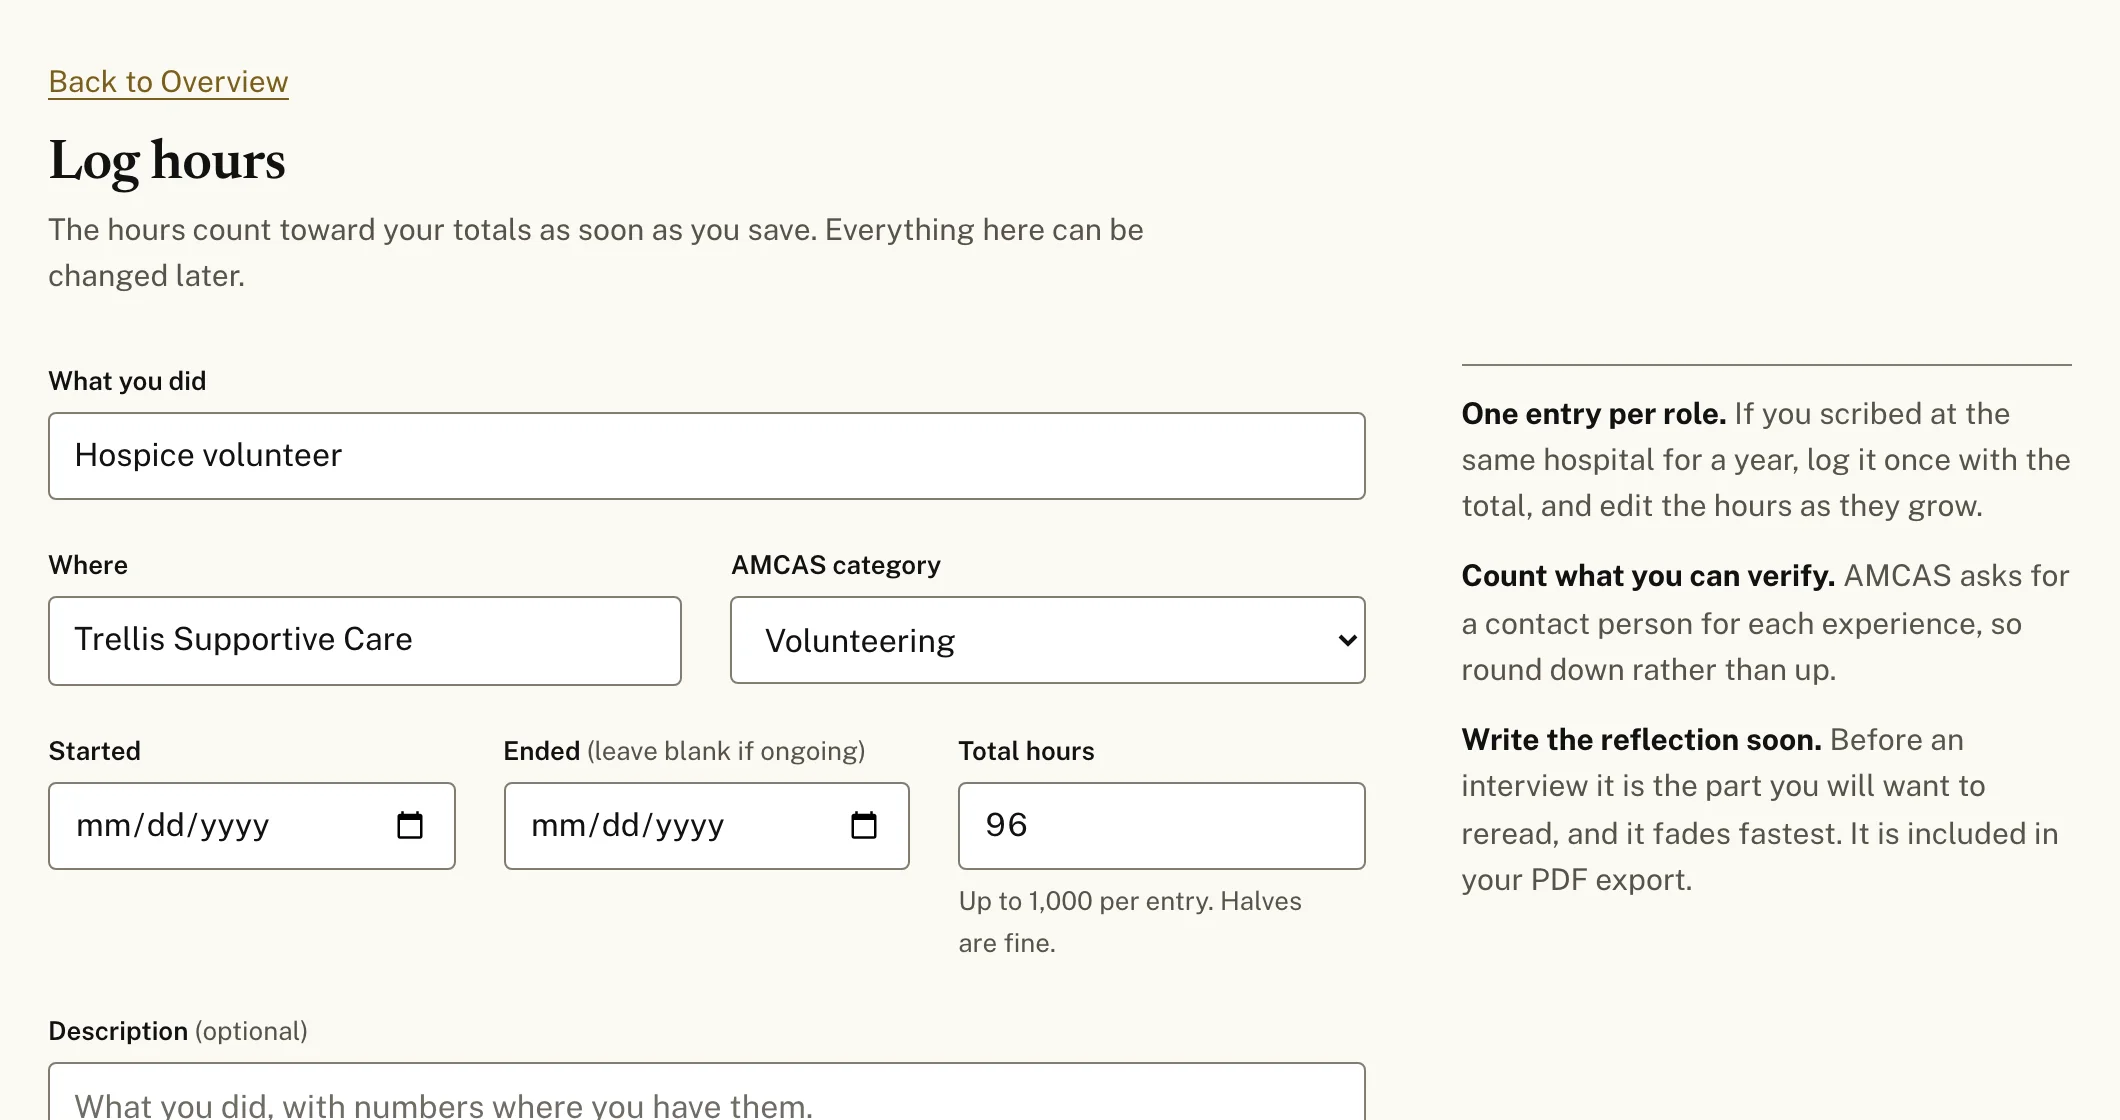
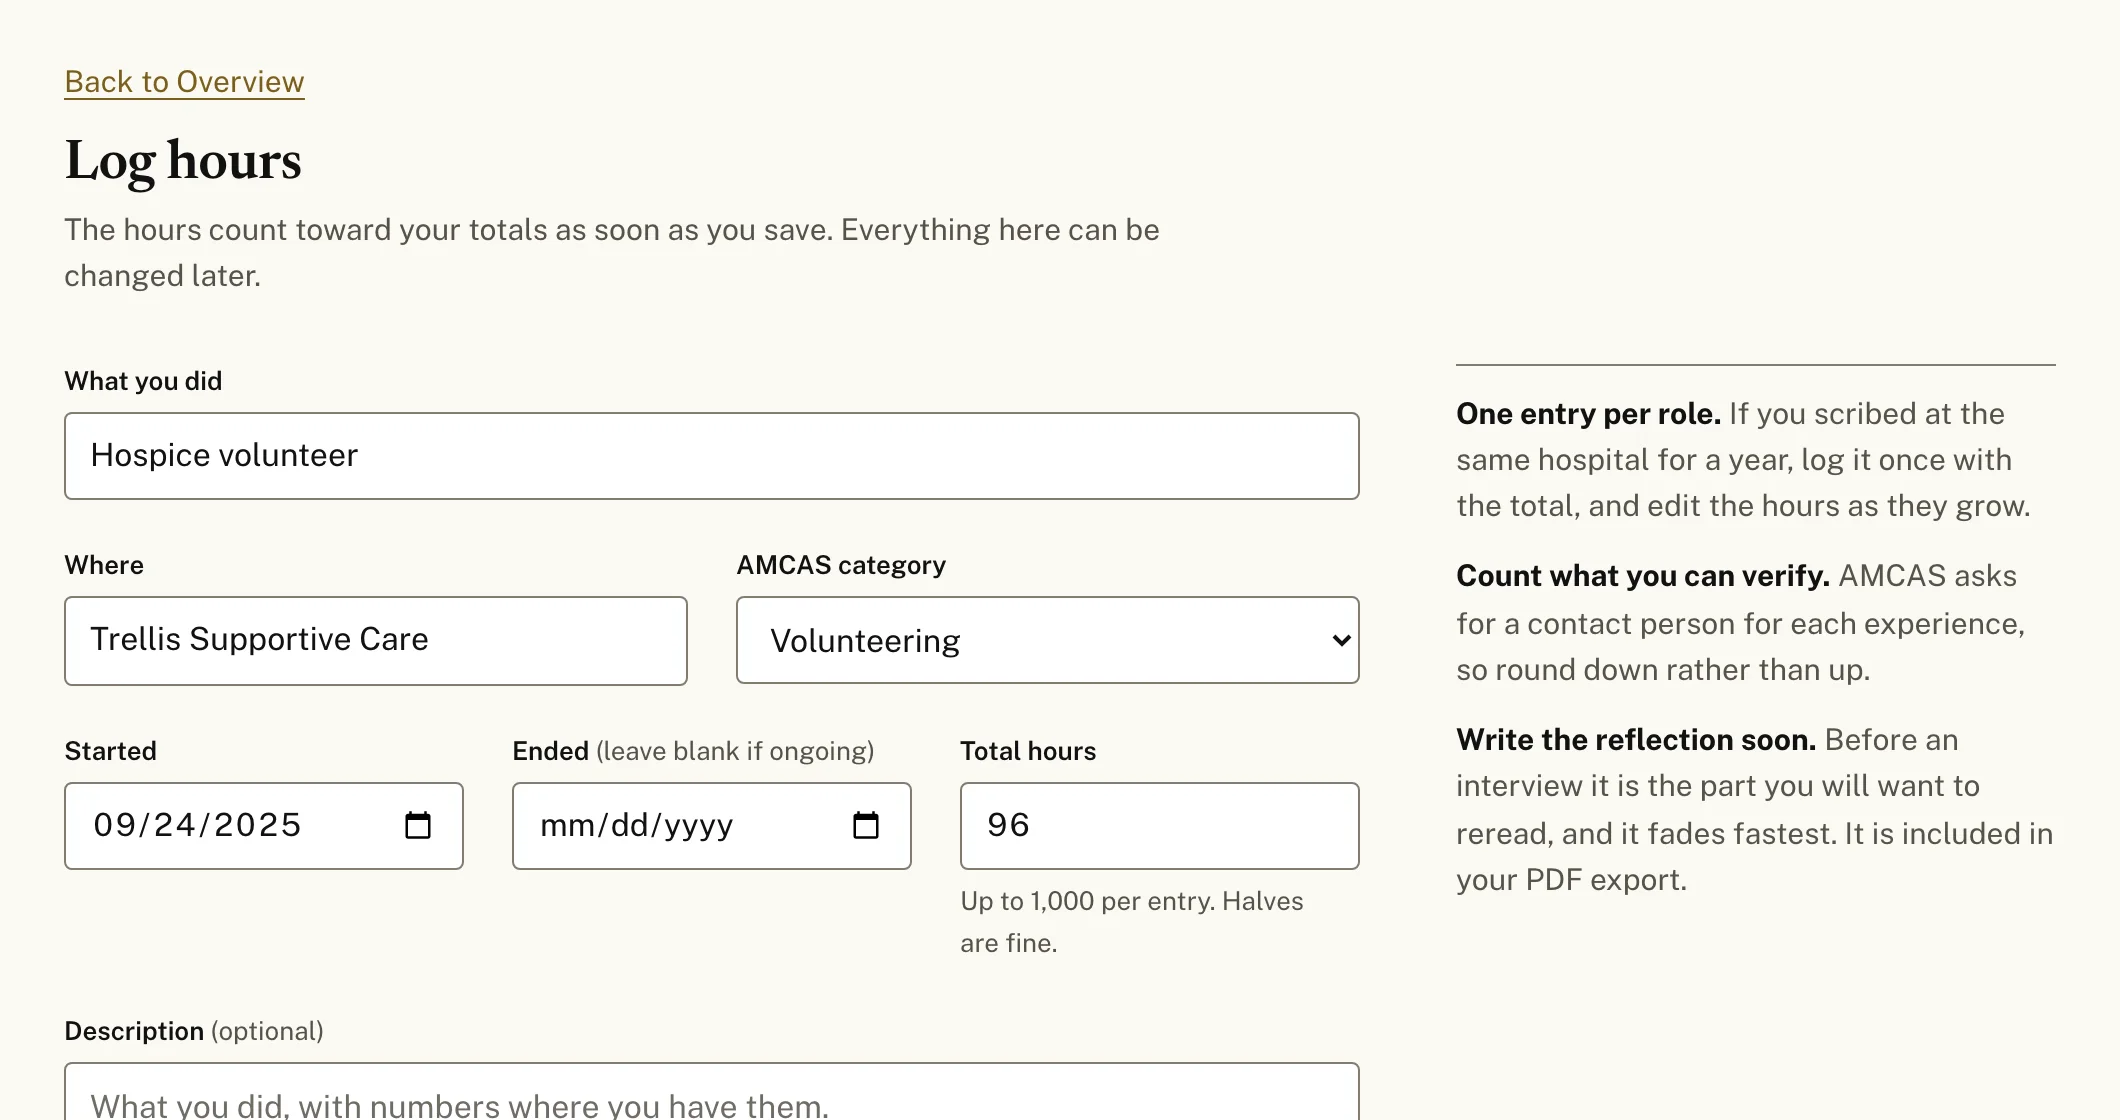
Phase 4 guardrails and phase 5 fixes
design-check now runs before every build and in a GitHub workflow.
Adds a skip link, makes the closed advisor drawer inert, clears the
five lint errors, gives every page a description, and computes landing
figures from the app's data.

diff --git a/src/components/AIAdvisorButton.tsx b/src/components/AIAdvisorButton.tsx
@@ -89,19 +89,21 @@ export default function AIAdvisorButton() {
     setCtxLoaded(true);
   }, [ctxLoaded, supabase]);
 
-  useEffect(() => {
-    if (open) {
-      window.dispatchEvent(new CustomEvent("cliniclog:advisor-opened"));
-      loadContext();
-      if (messages.length === 0) {
-        setMessages([{
-          role: "assistant",
-          content: "I'm the AI Advisor. I can see your logged hours and profile. Ask me about applying, and check anything important with your pre-health advisor, since I can be wrong.",
-        }]);
-      }
-      setTimeout(() => inputRef.current?.focus(), 300);
-    }
-  }, [open, loadContext, messages.length]);
+  // Everything that happens on open runs in the handler, not in an effect.
+  const openDrawer = useCallback(() => {
+    setOpen(true);
+    window.dispatchEvent(new CustomEvent("cliniclog:advisor-opened"));
+    loadContext();
+    setMessages((m) =>
+      m.length
+        ? m
+        : [{
+            role: "assistant",
+            content: "I can see your logged hours and profile, not your descriptions. Ask me about applying, and check anything important with your pre-health advisor, since I can be wrong.",
+          }],
+    );
+    setTimeout(() => inputRef.current?.focus(), 300);
+  }, [loadContext]);
 
   useEffect(() => {
     bottomRef.current?.scrollIntoView({ behavior: "smooth" });
@@ -109,12 +111,9 @@ export default function AIAdvisorButton() {
 
   // The drawer has no route of its own: every trigger dispatches this event.
   useEffect(() => {
-    function handleExternalOpen() {
-      setOpen(true);
-    }
-    window.addEventListener("cliniclog:open-advisor", handleExternalOpen);
-    return () => window.removeEventListener("cliniclog:open-advisor", handleExternalOpen);
-  }, []);
+    window.addEventListener("cliniclog:open-advisor", openDrawer);
+    return () => window.removeEventListener("cliniclog:open-advisor", openDrawer);
+  }, [openDrawer]);
 
   async function sendMessage() {
     const text = input.trim();
@@ -176,8 +175,13 @@ export default function AIAdvisorButton() {
         />
       )}
 
-      {/* Drawer */}
+      {/* Drawer. Inert while closed: it only slides off screen, so without
+          this its fields stay in the tab order. */}
       <div
+        inert={!open}
+        role="dialog"
+        aria-modal="true"
+        aria-label="AI advisor"
         className="fixed top-0 right-0 z-50 flex flex-col"
         style={{
           width: "min(420px, 100vw)",

diff --git a/src/app/page.tsx b/src/app/page.tsx
@@ -6,6 +6,8 @@ import Logo from "@/components/brand/Logo";
 import { AFFILIATION_NOTE } from "@/lib/brand";
 import overview from "../../public/landing-overview.webp";
 import logger from "../../public/landing-logger.webp";
+import { SCHOOLS, MD_SCHOOLS, DO_SCHOOLS, CARIBBEAN_SCHOOLS } from "@/lib/schools";
+import { SPECIALTIES } from "@/lib/specialties";
 import "./landing.css";
 
 export const metadata = {
@@ -13,8 +15,7 @@ export const metadata = {
     "Log clinical hours, shadowing, research and volunteering, compare them to common AMCAS benchmarks, and find medical schools that fit your GPA and MCAT.",
 };
 
-// Every figure here is counted from the app itself (src/lib/schools.ts,
-// src/lib/specialties.ts, src/lib/rateLimit.ts). Change them together.
+// Every figure is counted from the app's own data, so it cannot drift.
 const FACTS: { figure: string; label: string; body: string }[] = [
   {
     figure: "5",
@@ -22,9 +23,9 @@ const FACTS: { figure: string; label: string; body: string }[] = [
     body: "Clinical work, shadowing, research, volunteering and other, each with its own total and a common benchmark beside it.",
   },
   {
-    figure: "248",
+    figure: String(SCHOOLS.length),
     label: "medical schools",
-    body: "169 MD, 59 DO and 20 Caribbean programs, filtered by your GPA, MCAT, home state and mission.",
+    body: `${MD_SCHOOLS.length} MD, ${DO_SCHOOLS.length} DO and ${CARIBBEAN_SCHOOLS.length} Caribbean programs, filtered by your GPA, MCAT, home state and mission.`,
   },
   {
     figure: "1",
@@ -32,7 +33,7 @@ const FACTS: { figure: string; label: string; body: string }[] = [
     body: "Dates, hours, descriptions and reflections in one file, laid out for copying into the application.",
   },
   {
-    figure: "31",
+    figure: String(SPECIALTIES.length),
     label: "specialties",
     body: "Residency length, patient contact and a short summary of each, for deciding who to shadow next.",
   },

diff --git a/tests/polish/copy.spec.ts b/tests/polish/copy.spec.ts
@@ -44,16 +44,15 @@ test("the weekly email template is clean", () => {
   expect(BANNED.test(src)).toBe(false);
 });
 
-test("every page has a title and description under the length limits", () => {
+test("every page has a description under the length limit and no title of its own", () => {
   const pages = walk("src/app").filter((p) => p.endsWith("page.tsx"));
   for (const p of pages) {
     const own = readFileSync(p, "utf8");
     const layout = join(p, "..", "layout.tsx");
     const src = /export const metadata|generateMetadata/.test(own) ? own : existsSync(layout) ? readFileSync(layout, "utf8") : "";
     expect(/export const metadata|generateMetadata/.test(src), `${p} has no metadata`).toBe(true);
-    const title = src.match(/title:\s*"([^"]+)"/)?.[1];
-    expect(title, `${p} title`).toBeTruthy();
-    expect(title!.length, `${p} title length`).toBeLessThan(60);
+    // Every tab reads "ClinicLog MD" from the root layout (tests/polish/titles.spec.ts).
+    expect(/^\s*title:/m.test(src.slice(src.indexOf("export const metadata"))), `${p} sets its own title`).toBe(false);
     const desc = src.match(/description:\s*"([^"]+)"/)?.[1];
     if (desc) expect(desc.length, `${p} description length`).toBeLessThan(155);
   }

diff --git a/src/lib/tour/modules.ts b/src/lib/tour/modules.ts
@@ -41,7 +41,7 @@ export const TOUR_MODULES: TourModule[] = [
       { page: D, target: "path", title: "Your path", body: "Each branch is a category, and it grows as you log hours there. Leaf shapes tell the categories apart: solid for clinical, hollow for shadowing, diamond for research, round for volunteering, narrow for other.", sample: "path" },
       { page: D, target: "hours-breakdown", title: "Hours by category", body: "The ring splits your total hours by category. Use it to spot a category that is falling behind." },
       { page: D, target: "amcas-tracker", title: "Against common benchmarks", body: "Each bar compares your hours with a commonly cited benchmark. These are guides that many applicants use, not requirements set by any school.", sample: "tracker" },
-      { page: D, target: "insights", title: "What to work on next", body: "Short suggestions based on your entries and graduation year. Treat them as prompts to think about, not rules." },
+      { page: D, target: "insights", title: "Next steps", body: "Short suggestions based on your entries and graduation year. Treat them as prompts to think about, not rules." },
     ],
   },
   {

diff --git a/src/components/AppShell.tsx b/src/components/AppShell.tsx
@@ -97,6 +97,7 @@ export default function AppShell({ userEmail, activePath, breadcrumbs, children 
       className="min-h-screen"
       style={{ backgroundColor: "var(--background)" }}
     >
+      <a href="#content" className="skip-link">Skip to content</a>
       <RouteProgress />
       <PageView />
       {/* Sidebar - desktop */}
@@ -190,7 +191,7 @@ export default function AppShell({ userEmail, activePath, breadcrumbs, children 
           </div>
         </div>
 
-        <div className="app-content">{children}</div>
+        <div id="content" tabIndex={-1} className="app-content" style={{ outline: "none" }}>{children}</div>
       </div>
 
       {/* Mobile bottom nav */}

diff --git a/src/app/postbacc/PostbaccView.tsx b/src/app/postbacc/PostbaccView.tsx
@@ -260,7 +260,13 @@ function GpaCard({ label, sub, value, goal, onGoalChange }: {
   onGoalChange: (g: number) => void;
 }) {
   const [editingGoal, setEditingGoal] = useState(goal.toString());
-  useEffect(() => setEditingGoal(goal.toString()), [goal]);
+  // Follow a goal changed elsewhere, adjusted during render instead of in an
+  // effect so the field never shows the stale value for a frame.
+  const [lastGoal, setLastGoal] = useState(goal);
+  if (goal !== lastGoal) {
+    setLastGoal(goal);
+    setEditingGoal(goal.toString());
+  }
 
   const pct = value === null ? 0 : Math.min(100, (value / goal) * 100);
   const metGoal = value !== null && value >= goal;

diff --git a/src/app/globals.css b/src/app/globals.css
@@ -468,6 +468,22 @@ a.card:hover { border-color: var(--border-strong); }
 .filmstrip { scrollbar-width: none; }
 .filmstrip::-webkit-scrollbar { display: none; }
 
+/* Hidden until a keyboard user tabs to it, then pinned top left. */
+.skip-link {
+  position: absolute;
+  left: var(--sp-2);
+  top: -100px;
+  z-index: 300;
+  padding: var(--sp-1) var(--sp-2);
+  background: var(--surface);
+  color: var(--text);
+  border: 1px solid var(--border-strong);
+  border-radius: var(--radius-control);
+  font-size: var(--text-sm);
+  font-weight: 600;
+}
+.skip-link:focus { top: var(--sp-2); }
+
 /* The content column on every signed-in page. */
 .page {
   width: 100%;

diff --git a/src/components/ThemeToggle.tsx b/src/components/ThemeToggle.tsx
@@ -27,6 +27,9 @@ export default function ThemeToggle({ initial }: { initial?: Theme }) {
     // No stored choice: keep what the head script picked from the OS setting.
     const current = document.documentElement.getAttribute("data-theme") === "dark" ? "dark" : "light";
     const next = stored ?? initial ?? current;
+    // Reading localStorage has to wait for the client, so this sync runs in an
+    // effect on mount; the server renders the toggle without a theme.
+    // eslint-disable-next-line react-hooks/set-state-in-effect
     setTheme(next);
     document.documentElement.setAttribute("data-theme", next);
     setMounted(true);

diff --git a/src/components/RouteProgress.tsx b/src/components/RouteProgress.tsx
@@ -58,12 +58,12 @@ export default function RouteProgress() {
     };
   }, []);
 
+  // Show as soon as a navigation starts (adjusted during render, as React
+  // recommends for state derived from other state), and hide 220ms after it
+  // ends.
+  if (active && !visible) setVisible(true);
   useEffect(() => {
-    if (active) {
-      setVisible(true);
-      return;
-    }
-    if (!visible) return;
+    if (active || !visible) return;
     const t = setTimeout(() => setVisible(false), 220);
     return () => clearTimeout(t);
   }, [active, visible]);

diff --git a/src/app/archetype/ArchetypeView.tsx b/src/app/archetype/ArchetypeView.tsx
@@ -62,6 +62,9 @@ export default function ArchetypeView({ initialAnalysis, experienceCount, genera
   // Auto-run when no stored analysis yet
   useEffect(() => {
     if (!initialAnalysis && experienceCount >= 3) {
+      // A request on first view, the documented case for an effect. The
+      // loading flag it sets is what the user should see straight away.
+      // eslint-disable-next-line react-hooks/set-state-in-effect
       runAnalysis();
     }
     // eslint-disable-next-line react-hooks/exhaustive-deps

diff --git a/src/app/applications/page.tsx b/src/app/applications/page.tsx
@@ -4,6 +4,10 @@ import AppShell from "@/components/AppShell";
 import ApplicationsView from "./ApplicationsView";
 import { SchoolApplication } from "@/lib/appTypes";
 
+export const metadata = {
+  description: "Secondary essays, deadlines and the running cost of every school you are applying to.",
+};
+
 
 export default async function ApplicationsPage() {
   const supabase = await createClient();

diff --git a/src/app/recommendations/page.tsx b/src/app/recommendations/page.tsx
@@ -4,6 +4,10 @@ import AppShell from "@/components/AppShell";
 import RecommendationsView from "./RecommendationsView";
 import { Recommendation } from "@/lib/appTypes";
 
+export const metadata = {
+  description: "Who is writing each letter, where it stands, and which schools it goes to.",
+};
+
 
 export default async function RecommendationsPage() {
   const supabase = await createClient();
